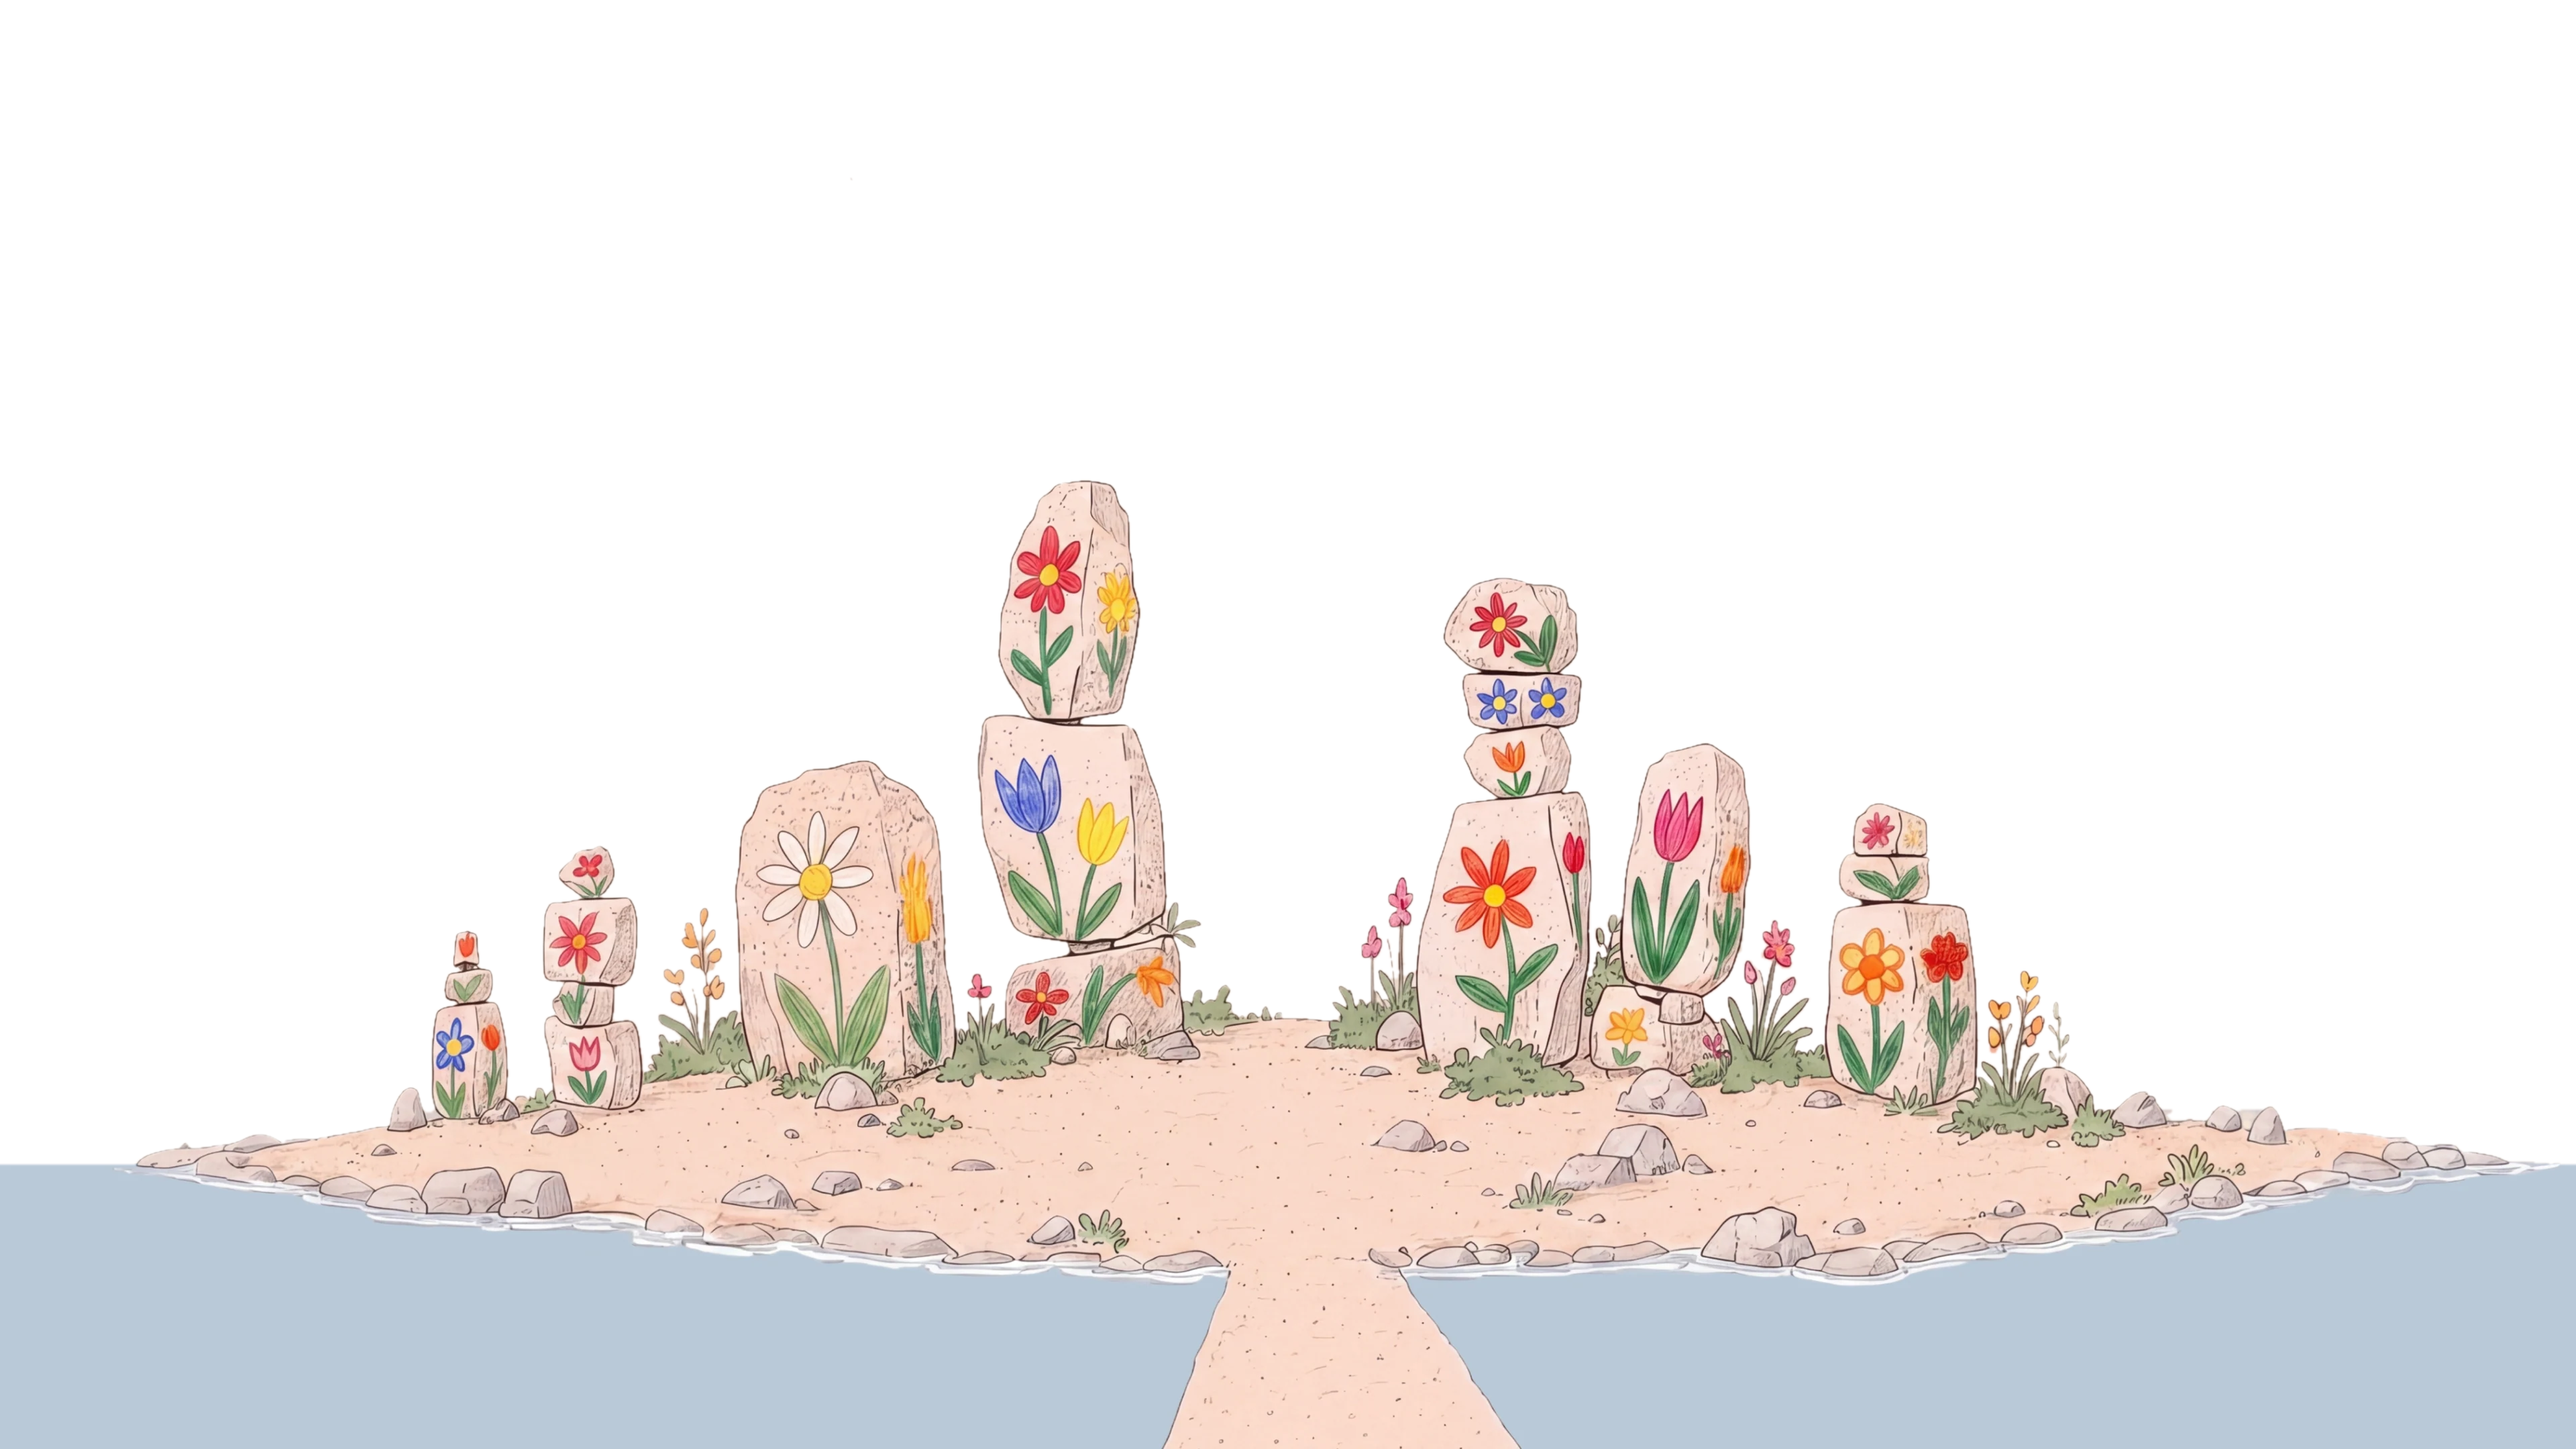
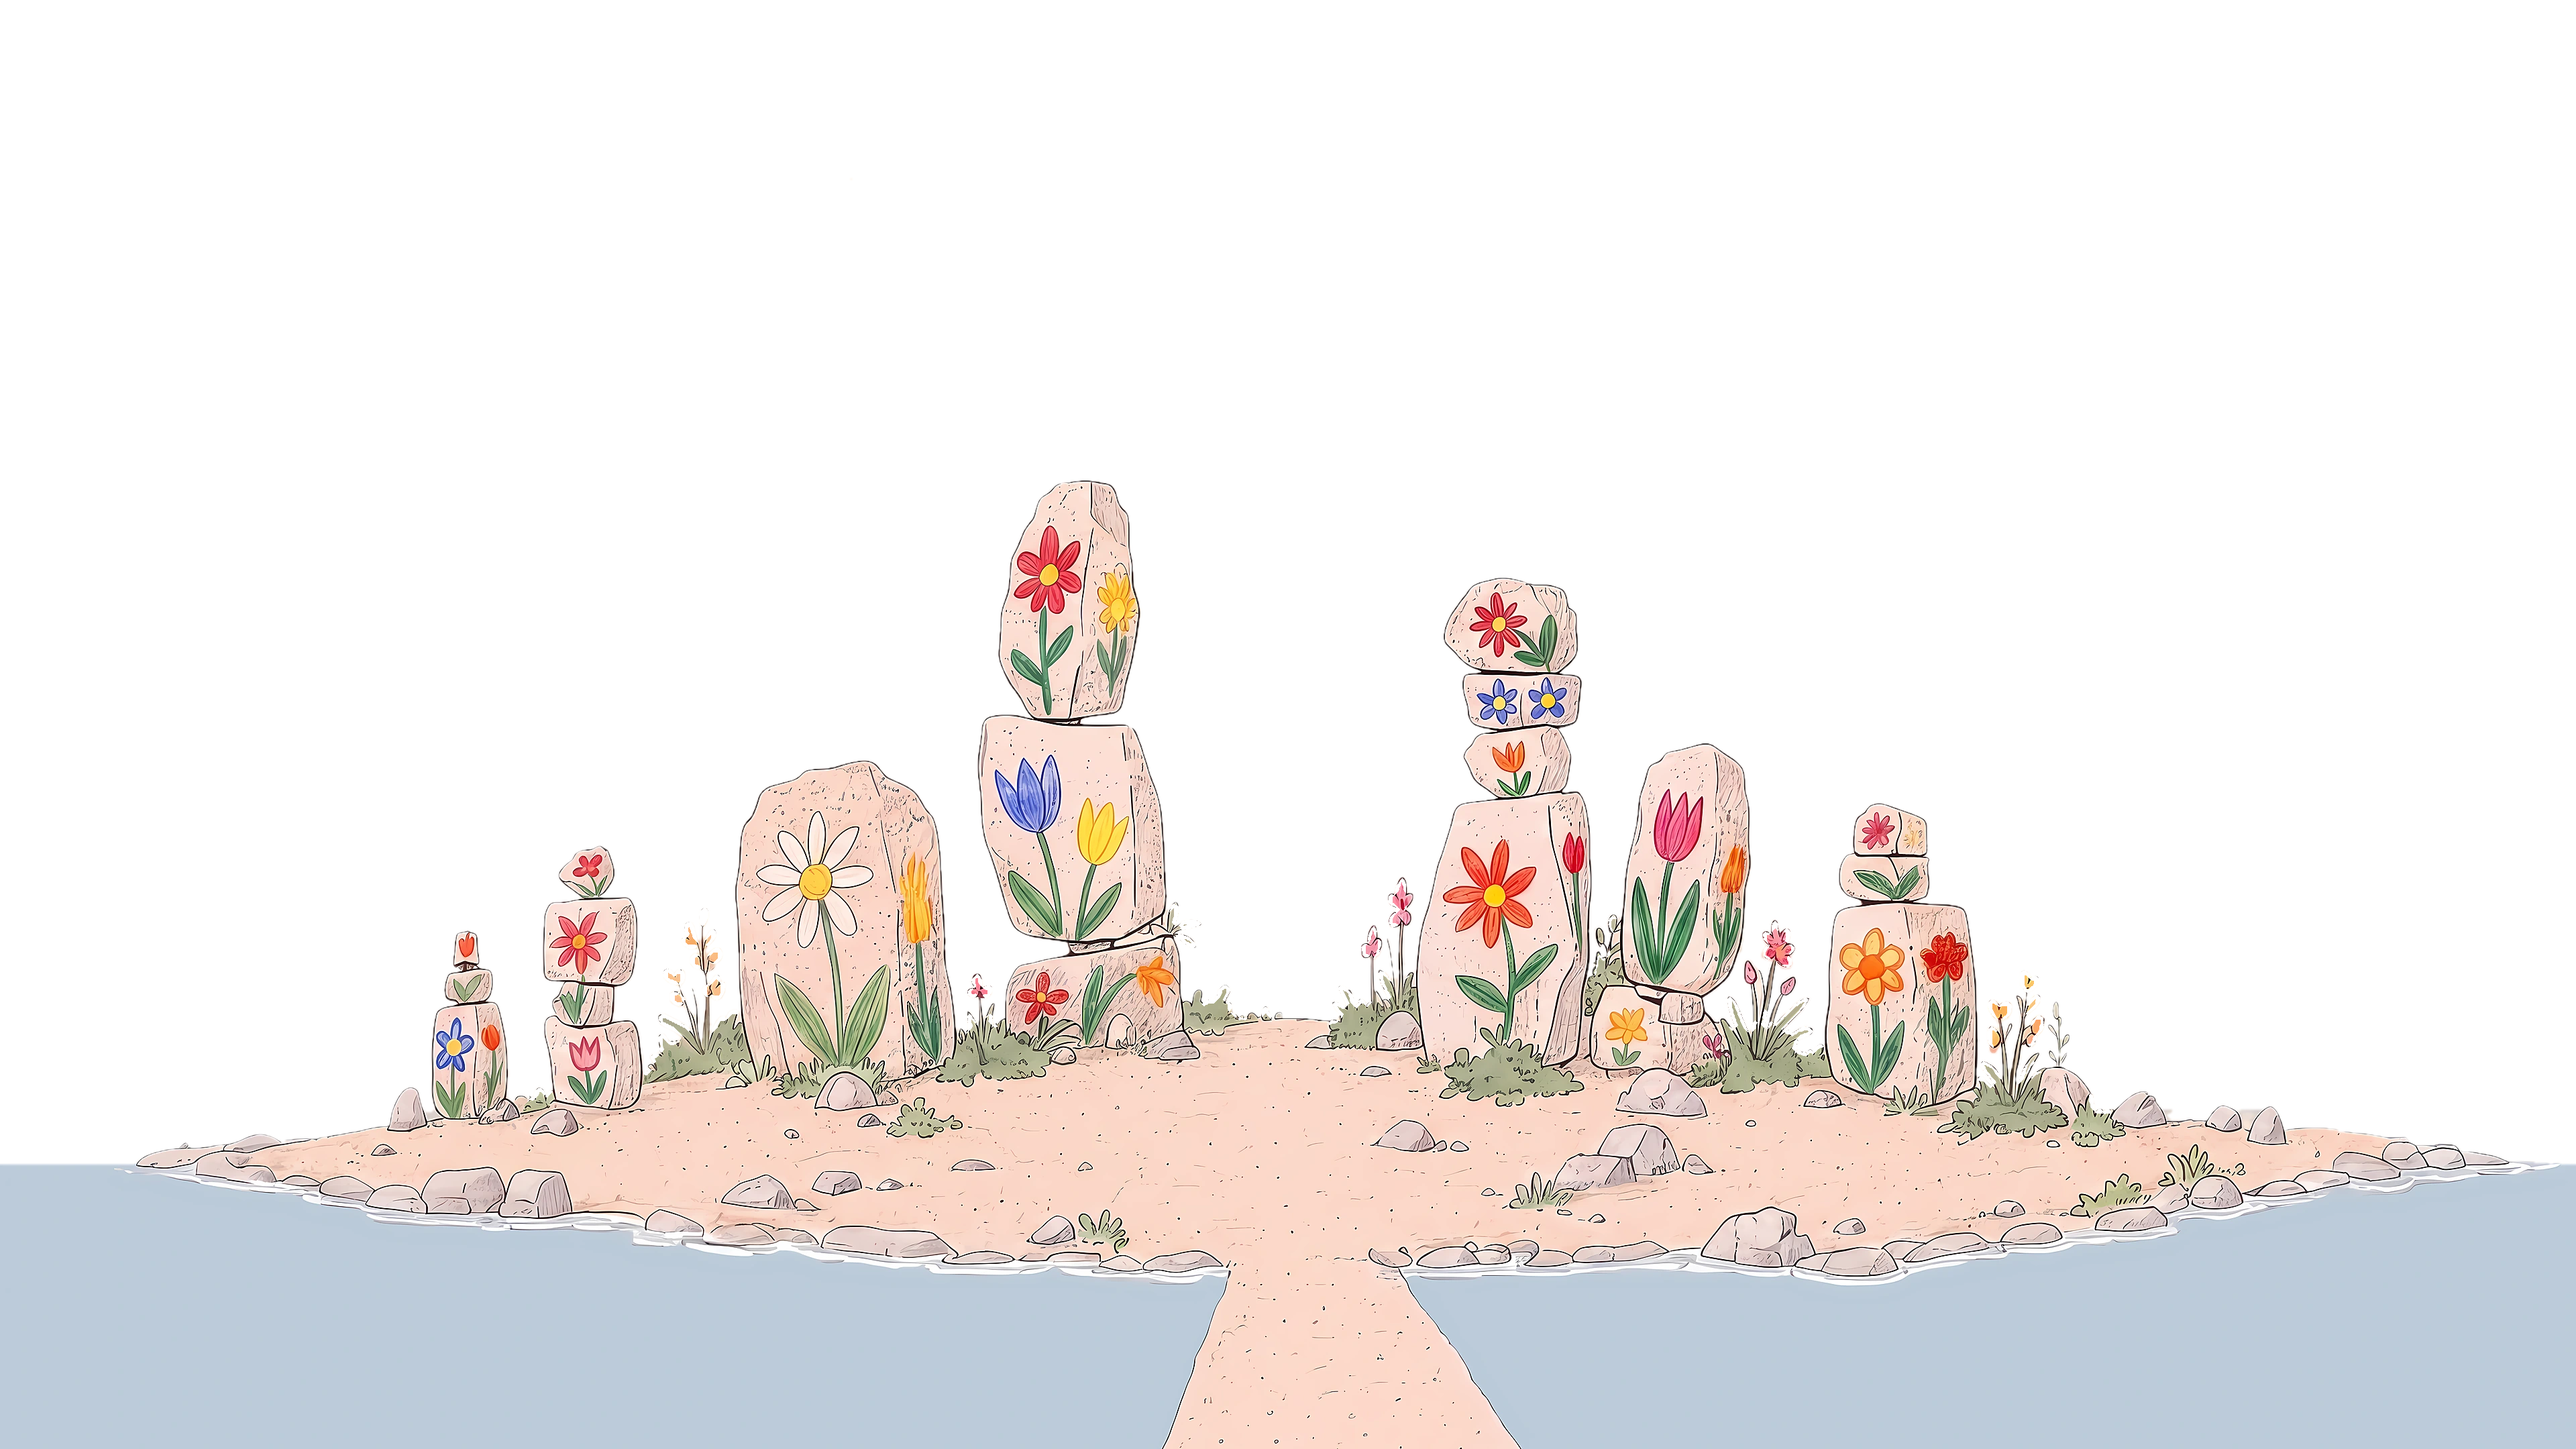
추모 커뮤니티 화면에도 움직임과 선명한 그림: 바다 물결·흘러가는 구름·하늘 새·돌 사이 꽃 살랑 (돌에 그려진 꽃은 그대로)

diff --git a/components/background-page-layout.tsx b/components/background-page-layout.tsx
@@ -2,23 +2,28 @@
 
 import Image from "next/image";
 import { MoodSkyBackground, type SkyScene } from "@/components/MoodSkyBackground";
+import { SceneMotion } from "@/components/SceneMotion";
+import type { SceneMotionConfig } from "@/lib/scene-motion";
 
 type BackgroundPageLayoutProps = {
   backgroundSrc: string;
   title: string;
   // 하늘을 뺀 그림이 있는 배경이면, 무드체크 기분에 맞는 하늘로 보여줌
   skyScene?: SkyScene;
+  // 바다 물결·구름·새·살랑이는 꽃 같은 움직임 (lib/scene-motion.ts)
+  motion?: SceneMotionConfig;
 };
 
 export function BackgroundPageLayout({
   backgroundSrc,
   title,
   skyScene,
+  motion,
 }: BackgroundPageLayoutProps) {
   return (
     <div className="relative h-screen w-screen overflow-hidden">
       {skyScene ? (
-        <MoodSkyBackground scene={skyScene} />
+        <MoodSkyBackground scene={skyScene} clouds={Boolean(motion)} />
       ) : (
         <Image
           src={backgroundSrc}
@@ -29,6 +34,8 @@ export function BackgroundPageLayout({
           sizes="100vw"
         />
       )}
+
+      {motion && <SceneMotion config={motion} />}
 
       <h1 className="sr-only">{title}</h1>
     </div>

diff --git a/app/community/page.tsx b/app/community/page.tsx
@@ -5,6 +5,7 @@ import {
   TopNav,
 } from "@/app/components/TopNav";
 import { SettingsModal } from "@/app/components/SettingsModal";
+import { COMMUNITY_MOTION } from "@/lib/scene-motion";
 import { BackgroundPageLayout } from "@/components/background-page-layout";
 import Image from "next/image";
 import { useRouter } from "next/navigation";
@@ -52,7 +53,7 @@ export default function CommunityPage() {
 
   return (
     <>
-      <BackgroundPageLayout backgroundSrc="/community.jpg" skyScene="community" title="" />
+      <BackgroundPageLayout backgroundSrc="/community.jpg" skyScene="community" title="" motion={COMMUNITY_MOTION} />
 
       <h1 className="pointer-events-none fixed left-1/2 top-[160px] z-20 flex -translate-x-1/2 items-baseline gap-0 whitespace-nowrap text-black">
         <span className="font-mulish text-[52px] font-semibold leading-none">

diff --git a/lib/scene-motion.ts b/lib/scene-motion.ts
@@ -45,3 +45,17 @@ export const MYLAND_MOTION: SceneMotionConfig = {
     ],
   },
 };
+
+// 추모 커뮤니티 (/community): 꽃이 그려진 돌탑 섬. 돌에 그려진 꽃은 그대로, 돌 사이 꽃과 풀만 살랑
+export const COMMUNITY_MOTION: SceneMotionConfig = {
+  sea: { mask: "/scenes/community-sea-mask.png", fade: [79, 86] },
+  plants: [{ src: "/scenes/community-plants.webp", left: 20.208, top: 60.509, width: 65.677 }],
+  birds: {
+    sky: { left: 4, right: 96, top: 8, bottom: 34 },
+    width: 3.6,
+    starts: [
+      { start: [78, 18], size: 1 },
+      { start: [22, 26], size: 0.8 },
+    ],
+  },
+};
